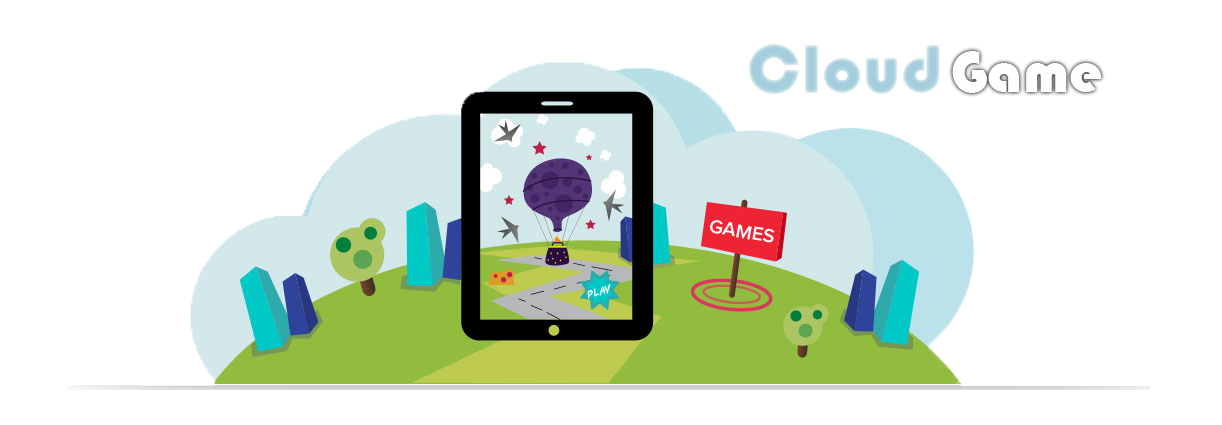
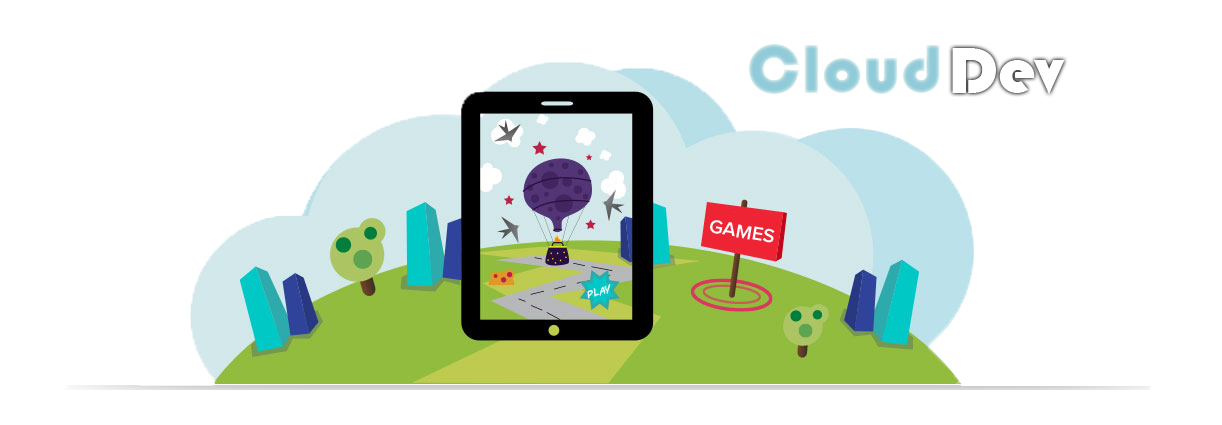
new pages

Changed region(s): [[0.7774, 0.0918, 0.9018, 0.2447]]

diff --git a/index.php b/index.php
@@ -2,7 +2,7 @@
 <html>
 	<head>
 		<title>
-			Cloud Game
+			Cloud Dev
 		</title>
 		<meta charset='utf-8'>
 		<link rel="stylesheet" type="text/css" media="all" href="static/css/bootstrap.css"/>
@@ -17,15 +17,15 @@
 	            <span class="icon-bar"></span>
 	            <span class="icon-bar"></span>
 	          </button>
-	          <a class="navbar-brand" href="#"><img src="static/img/Logo.png" style="height:150px; margin-top:-65px;"></a>
+	          <a class="navbar-brand" href="index.php"><img src="static/img/Logo.png" style="height:150px; margin-top:-65px;"></a>
 	        </div>
 	        <div class="navbar-collapse collapse">
 	          <form class="navbar-form navbar-right" role="form">
 	            <div class="form-group">
-	              <input type="text" placeholder="Email" class="form-control">
+	              <input type="text" placeholder="Nome de Usuario: " class="form-control">
 	            </div>
 	            <div class="form-group">
-	              <input type="password" placeholder="Password" class="form-control">
+	              <input type="password" placeholder="Senha: " class="form-control">
 	            </div>
 	            <button type="submit" class="btn btn-success">Entrar</button>
 	          </form>
@@ -34,9 +34,9 @@
 	    </div>
 	    <div class="jumbotron">
 	      <div class="container">
-	        <h1>Cloud Game</h1>
-	        <p> Cloud Game é o melhor destino para os jogadores ou criadores de jogos online, aqui é o melhor lugar para compartilhar sua experiência com games na web. No Cloud Game você pode construir e compartilhar jogos juntos de seus amigos.</p>
-	        <p><a class="btn btn-primary btn-lg" role="button">Cadastrar-se</a></p>
+	        <h1 style="color: #FFF; text-shadow: 1px 1px 4px rgba(0,0,0,.6); font-family: Georgia,serif;">Cloud Dev</h1>
+	        <p> Cloud Dev é o melhor destino para os desenvolvedores de software online, aqui é o melhor lugar para compartilhar sua experiência de desenvolvimento web. No Cloud Dev você pode construir e compartilhar coisas juntos de seus amigos.</p>
+	        <p><a class="btn btn-primary btn-lg" role="button" href="signup.php">Cadastrar-se</a></p>
 	      </div>
 	    </div>
 		<div class="container marketing">
@@ -44,31 +44,31 @@
 	        <div class="col-lg-4" style="text-align: center;">
 	          <img class="img-circle" src="static/img/code.png" alt="Generic placeholder image" style="width: 140px; height: 140px;">
 	          <h2>Open-source</h2>
-	          <p>Donec sed odio dui. Etiam porta sem malesuada magna mollis euismod. Nullam id dolor id nibh ultricies vehicula ut id elit. Morbi leo risus, porta ac consectetur ac, vestibulum at eros. Praesent commodo cursus magna.</p>
-	          <p><a class="btn btn-default" href="#" role="button">View details »</a></p>
+	          <p>Nós nos dedicamos a ajudar projetos de desenvolvedores iniciantes a ser tão bem sucedido quanto possível. Nós prosperamos na colaboração da comunidade para nos ajudar a criar um recurso de estréia para o desenvolvimento de software de código aberto.</p>
+	          <p><a class="btn btn-default" href="#" role="button">Saiba Mais »</a></p>
 	        </div>
 	        <div class="col-lg-4" style="text-align: center;">
 	          <img class="img-circle" src="static/img/user.png" alt="Generic placeholder image" style="width: 140px; height: 140px;">
 	          <h2>Social</h2>
-	          <p>Duis mollis, est non commodo luctus, nisi erat porttitor ligula, eget lacinia odio sem nec elit. Cras mattis consectetur purus sit amet fermentum. Fusce dapibus, tellus ac cursus commodo, tortor mauris condimentum nibh.</p>
-	          <p><a class="btn btn-default" href="#" role="button">View details »</a></p>
+	          <p>A nossa comunidade que tem como objetivo principal trazer informações sobre programação a comunidade acadêmica, no intuito de discutir e trocar informações, experiências e conhecimentos em todos os seus aspectos.</p>
+	          <p><a class="btn btn-default" href="#" role="button">Saiba Mais »</a></p>
 	        </div>
 	        <div class="col-lg-4" style="text-align: center;">
-	          <img class="img-circle" src="static/img/game.png" alt="Generic placeholder image" style="width: 140px; height: 140px;">
-	          <h2>Game</h2>
-	          <p>Donec sed odio dui. Cras justo odio, dapibus ac facilisis in, egestas eget quam. Vestibulum id ligula porta felis euismod semper. Fusce dapibus, tellus ac cursus commodo, tortor mauris condimentum nibh, ut fermentum massa justo sit amet risus.</p>
-	          <p><a class="btn btn-default" href="#" role="button">View details »</a></p>
+	          <img class="img-circle" src="static/img/doc.png" alt="Generic placeholder image" style="width: 140px; height: 140px;">
+	          <h2>Tutorial</h2>
+	          <p>Estamos trabalhando muito para levar o conhecimento de programação a todos, escrevemos e compartilhamos conteudos e tutoriais, queremos fazer deste site interessante, útil e correto. Sempre visando o aprendizado e interatividade de desenvolvedores iniciantes.</p>
+	          <p><a class="btn btn-default" href="#" role="button">Saiba Mais »</a></p>
 	        </div>
 	      </div>
 	      <hr class="featurette-divider">
 	      <div class="row featurette">
 	        <div class="col-md-7">
-	          <h2 class="featurette-heading">First featurette heading. <span class="text-muted">It'll blow your mind.</span></h2>
-	          <p class="lead">Donec ullamcorper nulla non metus auctor fringilla. Vestibulum id ligula porta felis euismod semper. Praesent commodo cursus magna, vel scelerisque nisl consectetur. Fusce dapibus, tellus ac cursus commodo.</p>
+	          <h2 class="featurette-heading">Bem-vindo(a) -  <span class="text-muted"> Cloud Dev</span></h2>
+	          <p class="lead">Todos os interessados são convidados e bem-vindos a fazer parte e contribuirem para troca de informações, links, tutoriais e tudo o que possa interessar sobre o tema de desenvolvimento web.</p>
 	        </div>
 	        <div class="col-md-5">
 	          <img class="featurette-image img-responsive" data-src="holder.js/500x500/auto" alt="500x500" src="static/img/computer.jpg">
-	          <img src="static/img//page.png" style="margin-top: -70%; margin-left: 4%; height:200px; width:420px;">
+	          <img src="static/img/page.png" style="margin-top: -70%; margin-left: 4%; height:220px; width:420px;">
 	        </div>
 	      </div>
 	      <hr class="featurette-divider">
@@ -77,15 +77,15 @@
 	          <img class="featurette-image img-responsive" data-src="holder.js/500x500/auto" alt="500x500" src="static/img/ferramenta.jpg">
 	        </div>
 	        <div class="col-md-7">
-	          <h2 class="featurette-heading">Oh yeah, it's that good. <span class="text-muted">See for yourself.</span></h2>
-	          <p class="lead">Donec ullamcorper nulla non metus auctor fringilla. Vestibulum id ligula porta felis euismod semper. Praesent commodo cursus magna, vel scelerisque nisl consectetur. Fusce dapibus, tellus ac cursus commodo.</p>
+	          <h2 class="featurette-heading">Tutoriais - <span class="text-muted">Desenvolvimento web</span></h2>
+	          <p class="lead">O foco principal é a disseminação da educação Online, oferecendo Tutoriais, intuitivos e dinâmicos na área de programação e desenvolvimento web. Estamos dispostos a ensinar o que realmente os desenvolvedores iniciantes tem interesse em aprender. Aprenda e desenvolva projetos com a ajuda da nossa comunidade, tenha a oportunidade de estudar confortavelmente na sua própria casa.</p>
 	        </div>
 	      </div>
 	      <hr class="featurette-divider">
 	      <div class="row featurette"style="text-align: center;">
 	        <div align="center">
-	          <h2 class="featurette-heading">And lastly, this one. <span class="text-muted">Checkmate.</span></h2>
-	          <p class="lead">Donec ullamcorper nulla non metus auctor fringilla. Vestibulum id ligula porta felis euismod semper. Praesent commodo cursus magna, vel scelerisque nisl consectetur. Fusce dapibus, tellus ac cursus commodo.</p>
+	          <h2 class="featurette-heading">Criatividade</h2>
+	          <p class="lead">Estamos sempre inovando e preparando conteúdos cada vez mais objetivos, dinâmicos e com muita criatividade, que tornarão seu aprendizado mais eficaz.</p>
 	        </div>
 	        <div align="center">
 	          <img class="featurette-image img-responsive" data-src="holder.js/500x500/auto" alt="500x500" src="static/img/banner_games.png">
@@ -95,7 +95,7 @@
 		<div class="footer" style="margin-top:50px; background-color: #1a1d30;">
 			<div class="container">
 		    	<img src="static/img/Logo.png" style="height: 100px; float: left;">
-		    	<p style="color:#fff; float:left; margin-top: 3.5%; margin-left: 30%"> © Cloud Game 2014</p>
+		    	<p style="color:#fff; float:left; margin-top: 3.5%; margin-left: 30%"> © Cloud Dev 2014 | <a href="about.php" style="color: #999;"> Sobre</a></p>
 			</div>
 		</div>
 	</body>

diff --git a/signup.php b/signup.php
@@ -1,0 +1,126 @@
+<!DOCTYPE >
+<html>
+	<head>
+		<title>
+			Cloud Dev
+		</title>
+		<meta charset='utf-8'>
+		<link rel="stylesheet" type="text/css" media="all" href="static/css/bootstrap.css"/>
+	</head>
+	<body onload="start();" style="background: #87b4c6; background-image: -webkit-radial-gradient(top, #794aa2 0%, #a4cddd; background-repeat: no-repeat;
+background-size: 100% 1000px;">
+		<div class="navbar navbar-inverse navbar-fixed-top" role="navigation">
+	      <div class="container">
+	        <div class="navbar-header">
+	          <button type="button" class="navbar-toggle" data-toggle="collapse" data-target=".navbar-collapse">
+	            <span class="sr-only">Toggle navigation</span>
+	            <span class="icon-bar"></span>
+	            <span class="icon-bar"></span>
+	            <span class="icon-bar"></span>
+	          </button>
+	          <a class="navbar-brand" href="index.php"><img src="static/img/Logo.png" style="height:150px; margin-top:-65px;"></a>
+	        </div>
+	        <div class="navbar-collapse collapse">
+	          <form class="navbar-form navbar-right" role="form">
+	            <div class="form-group">
+	              <input type="text" placeholder="Nome de Usuario: " class="form-control">
+	            </div>
+	            <div class="form-group">
+	              <input type="password" placeholder="Senha: " class="form-control">
+	            </div>
+	            <button type="submit" class="btn btn-success">Entrar</button>
+	          </form>
+	        </div>
+	      </div>
+	    </div>
+	    <div id="hero" class="container text-center" style=" background-color: #fff; margin-top:10%; width:60%; border-radius: 10px; box-shadow: rgba(0, 0, 0, 0.580392) 0px 0px 15px;">
+	      <div class="h2 featurette-heading text-muted">CADASTRO</div>
+	      <form class="col-md-12" name="f1">
+		    <div class="form-group" style="width:49%; float:left;">
+		        <input type="text" class="form-control input-lg" placeholder="Nome:">
+		    </div>
+		    <div class="form-group" style="width:49%; margin-left:2%; float:left;">
+		        <input type="text" class="form-control input-lg" placeholder="Sobrenome:">
+		    </div>
+		    <div class="form-group">
+		        <input type="text" class="form-control input-lg" placeholder="Nome de Usuario:">
+		    </div>
+		    <div class="form-group" style="width:40%; float:left;">
+		        <input type="password" name="senha1" class="form-control input-lg" placeholder="Senha:">
+		    </div>
+		     <div class="form-group" style="width:40%; margin-left:2%; float:left;">
+		        <input type="password" name="senha2" class="form-control input-lg" style="float:left;"placeholder="Confirmar Senha:">
+		    </div>
+		    <div class="form-group" style="width:16%; margin-left:2%; float:left;">
+		    	 <button  type="button" class="btn btn-info btn-lg btn-block" onClick="validarSenha()" onclick="document.getElementById('validartext').style.display='none'" style="float:left;"> <span class="glyphicon glyphicon-ok-sign" id="validar" style="display: none;"></span> Validar</button>
+		    </div>	
+		    <script>
+				function validarSenha(){
+					senha1 = document.f1.senha1.value;
+					senha2 = document.f1.senha2.value;
+					
+				 	if (senha1 == "" || senha2=="")
+						alert("Digite algo");
+						
+					else if (senha1 == senha2)
+						document.getElementById('validar').style.display='';
+					else
+						alert("Senhas Diferentes");
+				}
+			</script>
+		    <div class="form-group">
+		        <input type="text" class="form-control input-lg" placeholder="E-mail:">
+		    </div>
+		    <div class="form-group" style="width:52%; float:left;">
+		    	<h4 style="float:left;">
+		    		Data de Nascimento
+		    	</h4>
+				<select class="selectpicker" name="dia" class="text2"  id="dia" style="height:30px; border-radius:5px; border-color: #ccccfc;border-width: 1px;border-style: solid;font-family: Verdana, Geneva, sans-serif;color: #333;background-color: #ffffff;">
+					<?php 
+						$dia=0;
+						while ($dia<31)
+						{
+							$dia++;
+					?>
+					<option value="<?php echo $dia;?>" > <?php echo $dia;?> </option>
+					<?php 
+						}
+					?>
+				</select>
+				<select name="mes" class="text2"  id="mes" style="height:30px; border-radius:5px; border-color: #ccccfc;border-width: 1px;border-style: solid;font-family: Verdana, Geneva, sans-serif;color: #333;background-color: #ffffff;">
+					<?php 
+						$nome_mes = array (1=>'janeiro',2=>'fevereiro',3=>'março',4=>'abril',5=>'maio',6=>'junho',7=>'julho',8=>'agosto',9=>'setembro',10=>'outubro',11=>'novembro',12=>'dezembro');
+						$mes=0;
+						while ($mes<12)
+						{
+							$mes++;
+					?>
+					<option value="<?php echo $mes;?>" > <?php echo $nome_mes[$mes];?> </option>
+					<?php 
+						}
+					?>
+				</select>
+				<select name="ano" class="text2"  id="ano" style="height:30px; border-radius:5px;border-color: #ccccfc;border-width: 1px;border-style: solid;font-family: Verdana, Geneva, sans-serif;color: #333;background-color: #ffffff;">
+					<?php 
+						$ano=2013;
+						while ($ano>1900)
+						{
+							$ano--;
+					?>
+					<option value="<?php echo $ano;?>" > <?php echo $ano;?> </option>
+					<?php 
+						}
+					?>
+				</select>
+		    </div>
+		    <div class="form-group">
+		    	<input type="radio" name="sexo" value="masculino" checked="checked"><font class="lead" style="font-size: 18px;">Masculino</font>
+				<input type="radio" name="sexo" value="feminino"><font class="lead" style="font-size: 18px;">Feminino</font>
+				<input type="radio" name="sexo" value="indeciso"><font class="lead" style="font-size: 18px;">Indefinido</font>
+		    </div>
+		    <div class="form-group">
+		        <button class="btn btn-success btn-lg btn-block"><span class="glyphicon glyphicon-ok-circle"></span> cadastrar-se</button>
+		    </div>
+		</form>
+	</body>
+</html>	

diff --git a/about.php b/about.php
@@ -1,0 +1,62 @@
+<!DOCTYPE >
+<html>
+	<head>
+		<title>
+			Cloud Dev
+		</title>
+		<meta charset='utf-8'>
+		<link rel="stylesheet" type="text/css" media="all" href="static/css/bootstrap.css"/>
+	</head>
+	<body>
+		<div class="navbar navbar-inverse navbar-fixed-top" role="navigation">
+	      <div class="container">
+	        <div class="navbar-header">
+	          <button type="button" class="navbar-toggle" data-toggle="collapse" data-target=".navbar-collapse">
+	            <span class="sr-only">Toggle navigation</span>
+	            <span class="icon-bar"></span>
+	            <span class="icon-bar"></span>
+	            <span class="icon-bar"></span>
+	          </button>
+	          <a class="navbar-brand" href="index.php"><img src="static/img/Logo.png" style="height:150px; margin-top:-65px;"></a>
+	        </div>
+	        <div class="navbar-collapse collapse">
+	          <form class="navbar-form navbar-right" role="form">
+	            <div class="form-group">
+	              <input type="text" placeholder="Nome de Usuario: " class="form-control">
+	            </div>
+	            <div class="form-group">
+	              <input type="password" placeholder="Senha: " class="form-control">
+	            </div>
+	            <button type="submit" class="btn btn-success">Entrar</button>
+	          </form>
+	        </div>
+	      </div>
+	    </div>
+	    <div class="jumbotron">
+	      <div class="container">
+	        <h1 style="color: #FFF; text-shadow: 1px 1px 4px rgba(0,0,0,.6); font-family: Georgia,serif;">Cloud Dev</h1>
+	        <p> Cloud Dev é o melhor destino para os desenvolvedores de software online, aqui é o melhor lugar para compartilhar sua experiência de desenvolvimento web. No Cloud Dev você pode construir e compartilhar coisas juntos de seus amigos.</p>
+	        <p><a class="btn btn-primary btn-lg" role="button" href="signup.php">Cadastrar-se</a></p>
+	      </div>
+	    </div>
+		<div class="container marketing">
+	      <div class="row featurette">
+	        <div class="col-md-7">
+	          <h2 class="featurette-heading"> <span class="text-muted"> Um pouco sobre nós</span></h2>
+	          <p class="lead">Comunidade voltada a área de Tecnologia da Informação, focada na excelência da educação web. Trazemos tutorias para as mais variadas liguagens de programação web, visando auxiliar os processos de aprendizagem de desenvolvedores iniciantes.</p>
+	          <p class="lead">Temos como <b>missão</b> apoiar o aprendizado web, melhorando Conteúdo e o comprometimento dos desenvolvedores iniciantes para com o aprendizado web.</p>
+	        </div>
+	        <div class="col-md-5">
+	          <img class="featurette-image img-responsive" data-src="holder.js/500x500/auto" alt="500x500" src="static/img/computer.jpg">
+	          <img src="static/img/page.png" style="margin-top: -70%; margin-left: 4%; height:220px; width:420px;">
+	        </div>
+	      </div>
+	    </div>
+		<div class="footer" style="margin-top:50px; background-color: #1a1d30;">
+			<div class="container">
+		    	<img src="static/img/Logo.png" style="height: 100px; float: left;">
+		    	<p style="color:#fff; float:left; margin-top: 3.5%; margin-left: 30%"> © Cloud Dev 2014</p>
+			</div>
+		</div>
+	</body>
+</html>
